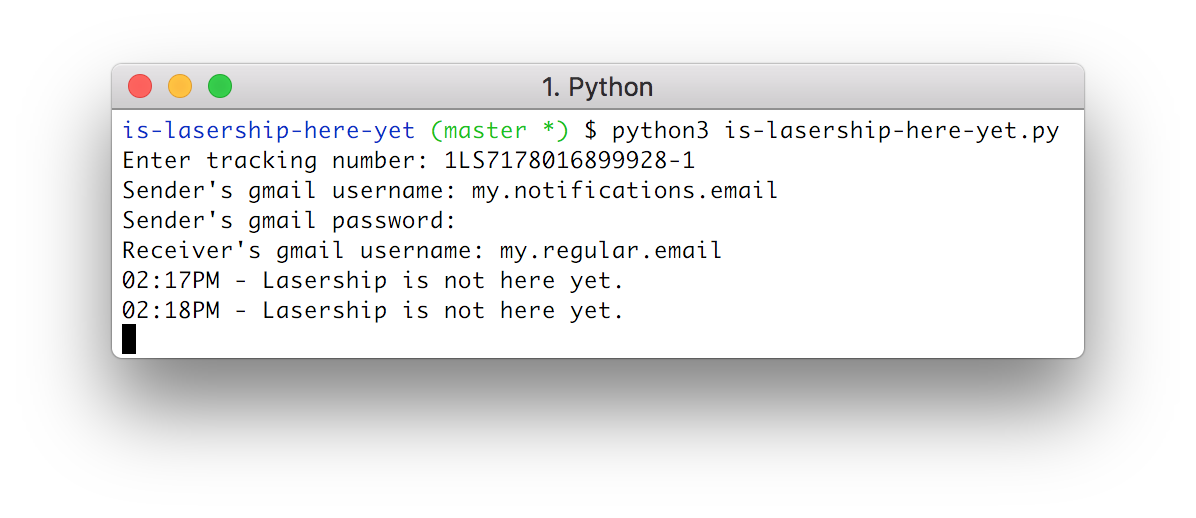
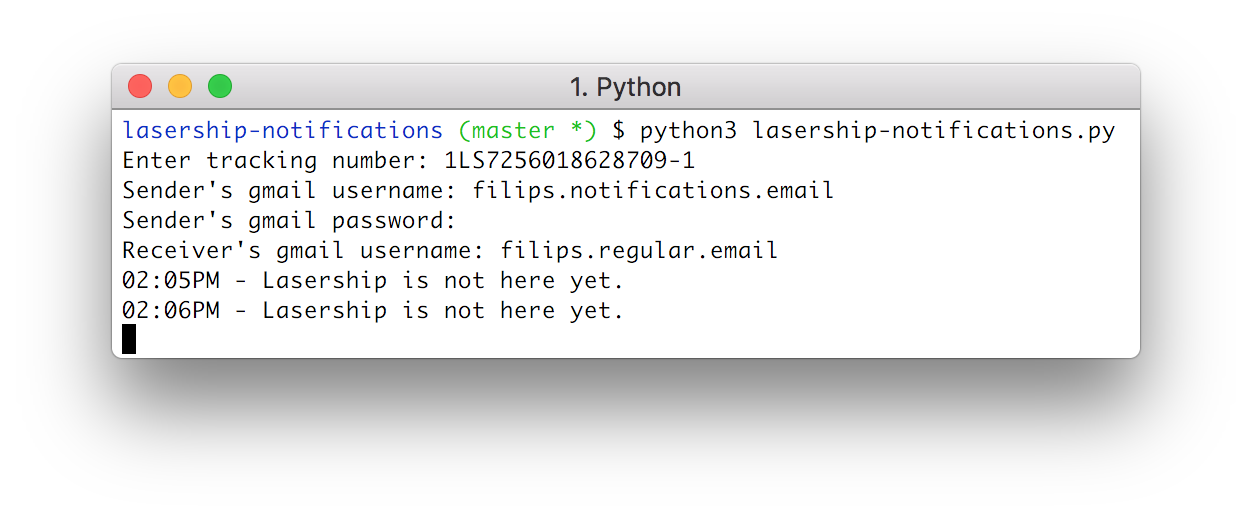
Adjust the demo screenshot

Changed region(s): [[0.0619, 0.2162, 0.9281, 0.6795], [0.0928, 0.1236, 0.2166, 0.1853], [0.4331, 0.1544, 0.5569, 0.1853]]

diff --git a/lasership-notifications.py b/lasership-notifications.py
@@ -6,7 +6,7 @@ from time import sleep
 from datetime import datetime
 
 
-message = """From: Is Lasership here yet?
+message = """From: Lasership Notifications
 Subject: Laserhip is here.
 """
 print("Enter tracking number:", end = " ", flush=True)
